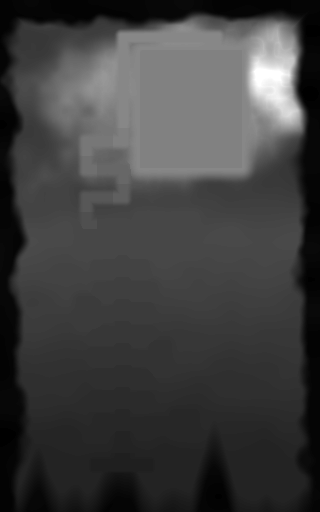
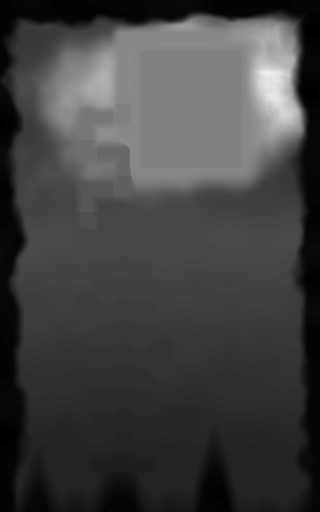
fix(foot-of-the-mountain): Doune sits on a broad summit shoulder, the summit is a massif not a tower, the switchback legs spread down the flank with the slope easing to their edges
Town: 23,341 of 133,145 land columns (17.5%) within eight cells of a town box.

diff --git a/campaigns/foot-of-the-mountain/design/generator/plan.py b/campaigns/foot-of-the-mountain/design/generator/plan.py
@@ -219,7 +219,7 @@ def join(a, b, face, kind, form):
     edges.append({"a": a, "b": b, "class": cls, "id": eid})
 
 
-TURN = 16
+TURN = 24
 ROUTE = [  # (direction of travel, kind, length): kind run (level) or ramp (+4)
     ("north", "run", 6),
     ("west", "run", 12), ("west", "ramp", RAMP_L), ("west", "run", 12),
@@ -231,7 +231,7 @@ ROUTE = [  # (direction of travel, kind, length): kind run (level) or ramp (+4)
     ("east", "run", 12), ("east", "ramp", RAMP_L), ("east", "run", 12),
     ("north", "ramp", RAMP_L),
     # the summit road: level along the castle hill's west shoulder
-    ("north", "run", 86),
+    ("north", "run", 62),
 ]
 prev, prev_dir, floor, rising = "node/square", "north", SQF, False
 for k, (d, kind, L) in enumerate(ROUTE, 1):
@@ -526,9 +526,9 @@ def mountain(x, z):
     wx = x + (fbm(x, z, 60, 2, 41) - 0.5) * 50      # domain warp: no circle survives
     wz = z + (fbm(x, z, 60, 2, 43) - 0.5) * 50
     d = math.hypot((wx - CX) / 165, (wz - CZ) / (125 if wz > CZ else 140))
-    dome = 50 + (CASTLE_WALK - 50) * (1 - smooth((d - 0.3) / 0.7))
-    p = math.hypot((wx - 278) / 62, (wz - 72) / 70)
-    summit = 112 * (1 - smooth(p)) ** 0.9 * (0.6 + 0.4 * ridged(x, z, 30, 3, 51))
+    dome = 50 + (CASTLE_WALK - 50) * (1 - smooth((d - 0.42) / 0.62))
+    p = math.hypot((wx - 270) / 95, (wz - 70) / 100)
+    summit = 80 * (1 - smooth(p)) ** 1.4 * (0.6 + 0.4 * ridged(x, z, 30, 3, 51))
     ridge_line = math.exp(-((wz - 34) / 20) ** 2) * smooth((wx - 120) / 60)
     ridge = 30 * ridge_line * (0.5 + 0.5 * ridged(x, z, 34, 3, 45))
     broken = (ridged(x, z, 22, 3, 47) - 0.45) * 16 * (1 - smooth(d))
@@ -570,7 +570,7 @@ T = [[0.0] * RX for _ in range(RZ)]
 for n, x0, z0, dx, dz, f in rects:
     castle = n == "node/castle"
     road = n.startswith("node/road") or n == "node/gate-road"
-    skirt = 16 if castle else (7 if road else (3 if n == "node/quay" else 12))
+    skirt = 28 if castle else (12 if road else (3 if n == "node/quay" else 12))
     for z in range(max(0, z0 - 1 - skirt), min(RZ, z0 + dz + 1 + skirt)):
         for x in range(max(0, x0 - 1 - skirt), min(RX, x0 + dx + 1 + skirt)):
             ddx = max(x0 - x, 0, x - (x0 + dx - 1))
